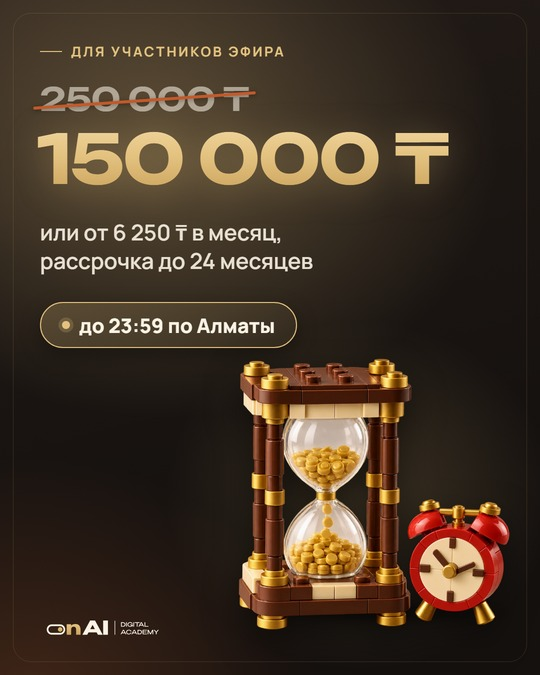
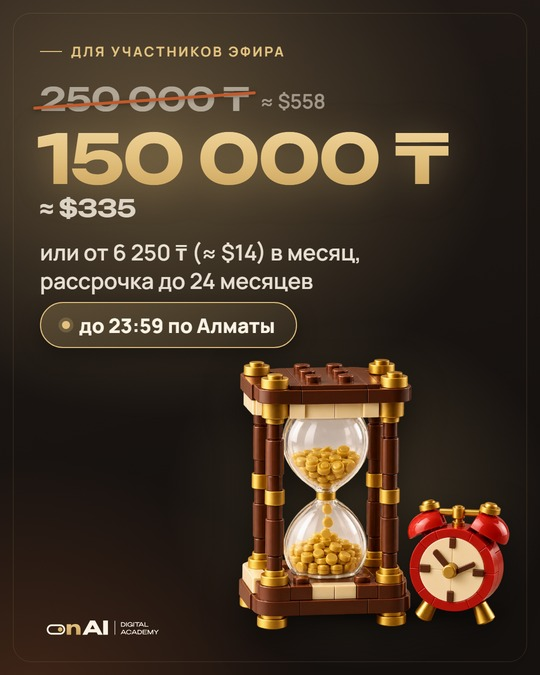
Карточки оффера с долларами; новые адреса картинок с версией, чтобы бот не слал старые из кеша file_id

Changed region(s): [[0.0593, 0.28, 0.6815, 0.4356], [0.4741, 0.1244, 0.6222, 0.1867]]

diff --git a/docs/tg-media/card.html b/docs/tg-media/card.html
@@ -62,7 +62,9 @@ html,body{width:1080px;height:1350px}
 .offer .old::after{content:"";position:absolute;left:-14px;right:-14px;top:50%;height:6px;border-radius:3px;background:#C0562A;transform:rotate(-4deg);box-shadow:0 2px 10px rgba(0,0,0,.4)}
 .offer .price{position:absolute;left:74px;top:246px;font-family:'Unbounded',sans-serif;font-weight:700;font-size:136px;line-height:1.05;letter-spacing:-.035em;white-space:nowrap;
   background:var(--gold-grad);-webkit-background-clip:text;background-clip:text;color:transparent;filter:drop-shadow(0 10px 34px rgba(227,192,123,.28))}
-.offer .inst{position:absolute;left:80px;top:436px;width:620px;font-weight:600;font-size:44px;line-height:1.3;color:rgba(251,243,228,.9)}
+.offer .old-usd{position:absolute;left:520px;top:182px;font-weight:600;font-size:40px;line-height:1;color:rgba(251,243,228,.5);white-space:nowrap}
+.offer .usd{position:absolute;left:80px;top:392px;font-family:'Unbounded',sans-serif;font-weight:600;font-size:48px;line-height:1;letter-spacing:-.01em;color:rgba(251,243,228,.82);white-space:nowrap}
+.offer .inst{position:absolute;left:80px;top:476px;width:620px;font-weight:600;font-size:44px;line-height:1.3;color:rgba(251,243,228,.9)}
 .offer .until{position:absolute;left:80px;top:604px;display:inline-flex;align-items:center;gap:18px;height:92px;padding:0 42px;border-radius:999px;
   border:2px solid var(--gold);background:linear-gradient(135deg,rgba(227,192,123,.22),rgba(227,192,123,.06));font-weight:800;font-size:40px;color:var(--cream);box-shadow:0 14px 40px rgba(0,0,0,.35)}
 .offer .until b{display:block;width:16px;height:16px;border-radius:50%;background:var(--gold);box-shadow:0 0 0 7px rgba(227,192,123,.2)}
@@ -114,9 +116,10 @@ const cards = {
   "offer": {
     cls: "offer", gx: "30%", gy: "22%",
     html: `${lab("ДЛЯ УЧАСТНИКОВ ЭФИРА")}
-      <div class="old">250&nbsp;000&nbsp;₸</div>
+      <div class="old">250&nbsp;000&nbsp;₸</div><div class="old-usd">≈&nbsp;$558</div>
       <div class="price">150&nbsp;000&nbsp;₸</div>
-      <div class="inst">или от 6&nbsp;250&nbsp;₸ в месяц, рассрочка до 24&nbsp;месяцев</div>
+      <div class="usd">≈&nbsp;$335</div>
+      <div class="inst" style="width:920px">или от 6&nbsp;250&nbsp;₸ (≈&nbsp;$14) в месяц,<br>рассрочка до 24&nbsp;месяцев</div>
       <div class="until"><b></b>до 23:59 по Алматы</div>
       <div class="light-floor" style="left:330px;top:640px;width:780px;height:700px;opacity:.55"></div>
       <div class="shadow-floor" style="left:500px;top:1196px;width:520px;height:56px"></div>
@@ -127,8 +130,9 @@ const cards = {
   "offer-bundle": {
     cls: "offer", gx: "30%", gy: "22%",
     html: `${lab("ТОЛЬКО ДЛЯ УЧАСТНИКОВ ЭФИРА")}
-      <div class="old">440&nbsp;900&nbsp;₸</div>
+      <div class="old">440&nbsp;900&nbsp;₸</div><div class="old-usd">≈&nbsp;$984</div>
       <div class="price">390&nbsp;000&nbsp;₸</div>
+      <div class="usd">≈&nbsp;$871</div>
       <div class="inst" style="width:920px">Vibe Production и Vibe Coding PRO,<br>оба курса с обратной связью</div>
       <div class="until"><b></b>до 23:59 по Алматы</div>
       <div class="light-floor" style="left:330px;top:640px;width:780px;height:700px;opacity:.55"></div>
